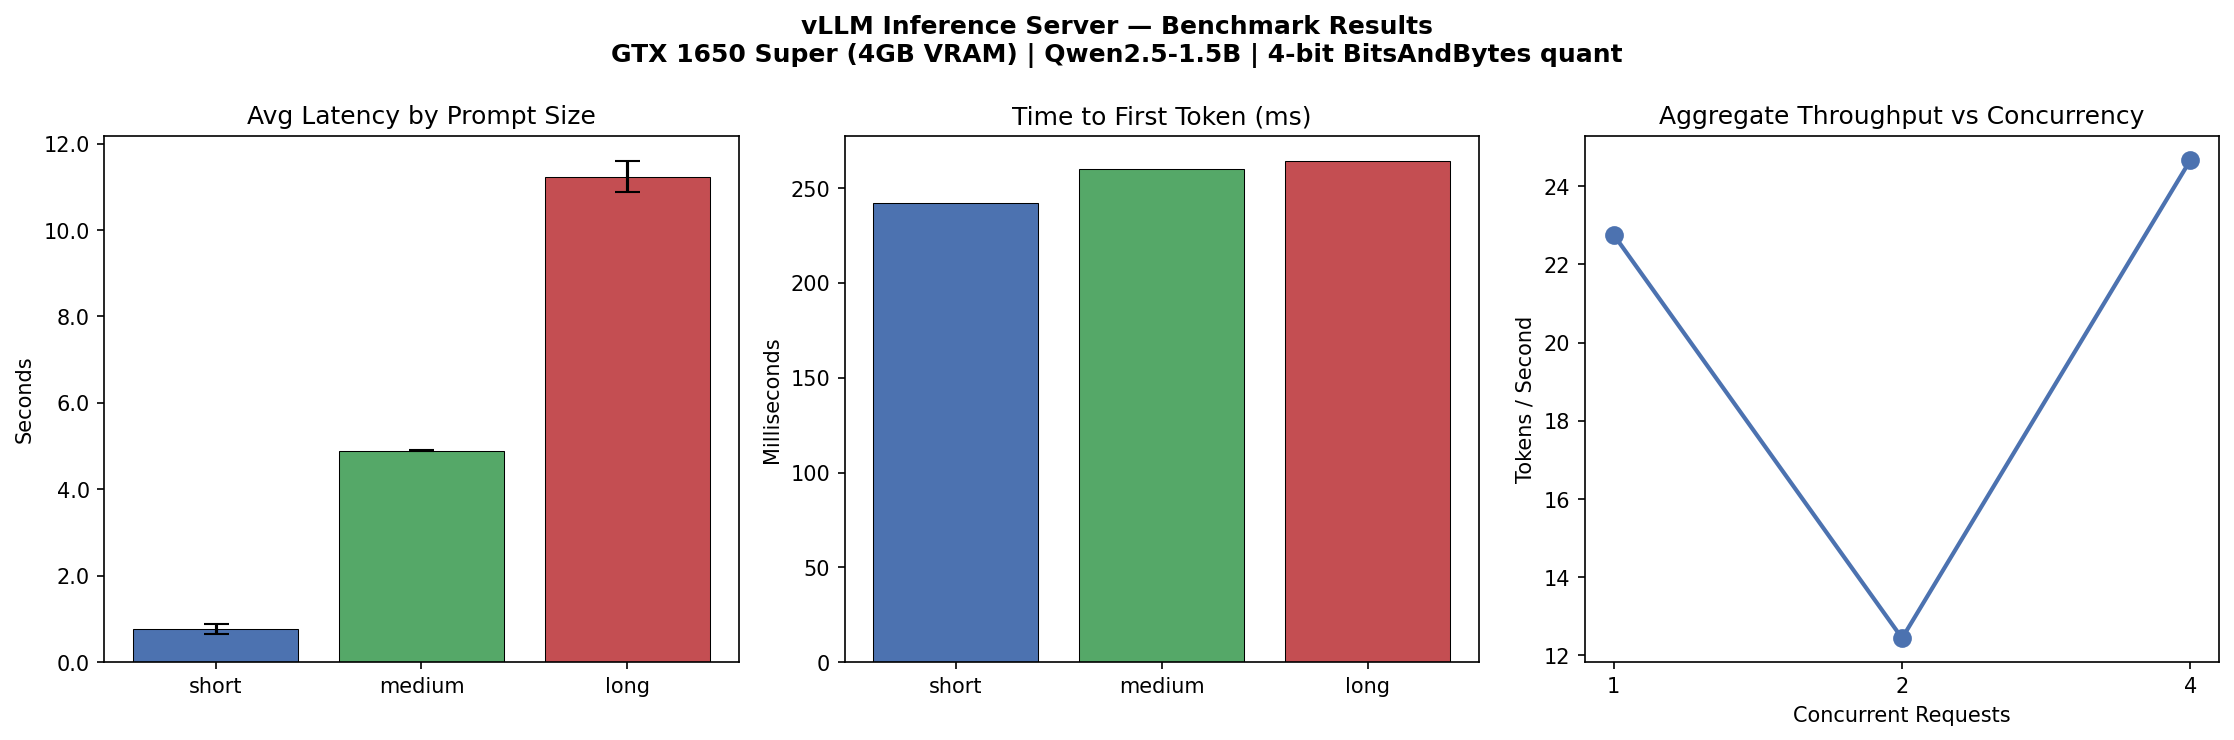
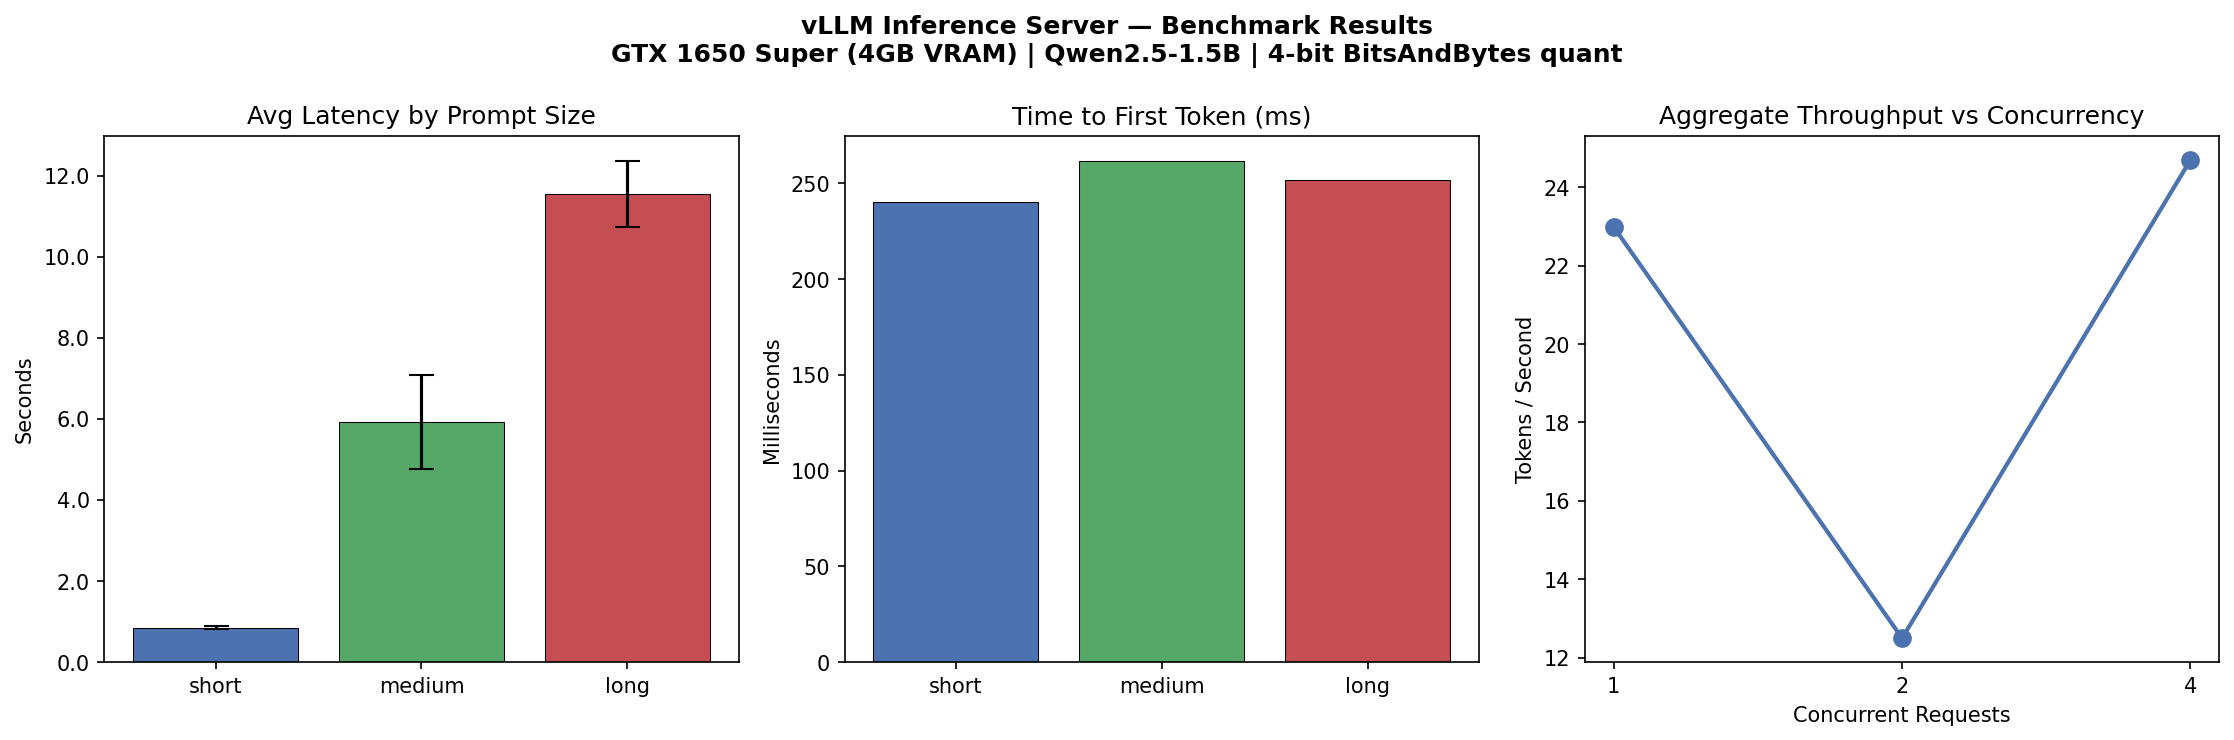
full sync

diff --git a/benchmark.py b/benchmark.py
@@ -14,19 +14,15 @@ import matplotlib.pyplot as plt
 import matplotlib.ticker as mticker
 from pathlib import Path
 
-BASE_URL  = "http://localhost:8000/v1"
-MODEL     = "qwen2.5-1.5b"
-HEADERS   = {"Content-Type": "application/json", "Authorization": "Bearer placeholder"}
+BASE_URL = "http://localhost:8000/v1"
+MODEL = "qwen2.5-1.5b"
+HEADERS = {"Content-Type": "application/json", "Authorization": "Bearer placeholder"}
 OUTPUT_DIR = Path("/mnt/d/vllm-project/server")
 
 PROMPTS = {
     "short":  "What is 2 + 2?",
     "medium": "Explain what a transformer neural network is in 3 sentences.",
-    "long": (
-        "Write a detailed explanation of how PagedAttention in vLLM improves "
-        "GPU memory efficiency compared to static KV cache allocation. "
-        "Include concrete numbers and a comparison."
-    ),
+    "long": "Write a detailed explanation of how Attention works in Transformer"
 }
 
 
@@ -40,10 +36,13 @@ def non_streaming_request(prompt: str, max_tokens: int = 256) -> dict:
     }
     t0 = time.perf_counter()
     resp = requests.post(f"{BASE_URL}/chat/completions", json=payload, headers=HEADERS)
+
     elapsed = time.perf_counter() - t0
     resp.raise_for_status()
+
     data = resp.json()
     completion_tokens = data["usage"]["completion_tokens"]
+
     return {
         "elapsed_s": elapsed,
         "completion_tokens": completion_tokens,
@@ -61,6 +60,7 @@ def time_to_first_token(prompt: str, max_tokens: int = 128) -> float:
         "temperature": 0.0,
         "stream": True,
     }
+
     t0 = time.perf_counter()
     with requests.post(
         f"{BASE_URL}/chat/completions", json=payload, headers=HEADERS, stream=True
@@ -69,6 +69,7 @@ def time_to_first_token(prompt: str, max_tokens: int = 128) -> float:
         for line in resp.iter_lines():
             if line and line != b"data: [DONE]":
                 return time.perf_counter() - t0
+
     return -1.0
 
 
@@ -83,12 +84,12 @@ def concurrent_benchmark(prompt: str, n_concurrent: int = 4, max_tokens: int = 1
     wall_time = time.perf_counter() - t0
 
     total_tokens = sum(r["completion_tokens"] for r in results)
-    latencies    = [r["elapsed_s"] for r in results]
+    latencies = [r["elapsed_s"] for r in results]
     return {
         "wall_time_s":    wall_time,
-        "total_tokens":   total_tokens,
-        "aggregate_tps":  total_tokens / wall_time,
-        "avg_latency_s":  statistics.mean(latencies),
+        "total_tokens" :   total_tokens,
+        "aggregate_tps" :  total_tokens / wall_time,
+        "avg_latency_s" :  statistics.mean(latencies),
         "p95_latency_s":  sorted(latencies)[int(0.95 * len(latencies))],
     }
 
@@ -104,13 +105,13 @@ def run_latency_benchmark(n_runs: int = 5) -> dict:
             print(f"  [{label}] run {i+1}: {r['elapsed_s']:.2f}s | "
                   f"{r['completion_tokens']} tokens | {r['tokens_per_sec']:.1f} tok/s")
         results[label] = {
-            "mean_s":  statistics.mean(times),
+            "mean_s" :  statistics.mean(times),
             "stdev_s": statistics.stdev(times) if len(times) > 1 else 0,
-            "min_s":   min(times),
+            "min_s" :   min(times),
             "max_s":   max(times),
         }
         print(f"  [{label}] avg={results[label]['mean_s']:.2f}s "
-              f"±{results[label]['stdev_s']:.2f}s\n")
+              f"+/-{results[label]['stdev_s']:.2f}s\n")
     return results
 
 
@@ -118,10 +119,10 @@ def run_ttft_benchmark(n_runs: int = 5) -> dict:
     print("── Time to First Token ─────────────────────────────────────")
     results = {}
     for label, prompt in PROMPTS.items():
-        times  = [time_to_first_token(prompt) for _ in range(n_runs)]
-        mean   = statistics.mean(times)
+        times= [time_to_first_token(prompt) for _ in range(n_runs)]
+        mean = statistics.mean(times)
         results[label] = mean
-        print(f"  [{label}] TTFT avg: {mean*1000:.0f}ms")
+        print(f" [{label}] TTFT avg: {mean*1000:.0f}ms")
     return results
 
 
@@ -148,7 +149,7 @@ def plot_results(latency_results: dict, ttft_results: dict, concurrency_results:
         fontsize=12, fontweight="bold"
     )
 
-    # Panel 1: avg latency
+    # panel 1: avg latency
     means = [latency_results[l]["mean_s"] for l in labels]
     errs  = [latency_results[l]["stdev_s"] for l in labels]
     axes[0].bar(labels, means, yerr=errs,
@@ -166,7 +167,7 @@ def plot_results(latency_results: dict, ttft_results: dict, concurrency_results:
     axes[1].set_title("Time to First Token (ms)")
     axes[1].set_ylabel("Milliseconds")
 
-    # Panel 3: throughput vs concurrency
+    # panel 3: throughput vs concurrency
     ns       = sorted(concurrency_results.keys())
     tps_vals = [concurrency_results[n]["aggregate_tps"] for n in ns]
     axes[2].plot([str(n) for n in ns], tps_vals,
@@ -179,8 +180,7 @@ def plot_results(latency_results: dict, ttft_results: dict, concurrency_results:
     plt.tight_layout()
     out_path = OUTPUT_DIR / "benchmark_results.png"
     plt.savefig(out_path, dpi=150, bbox_inches="tight")
-    print(f"\n✅  Chart saved to {out_path}")
-    print(f"    Open in Windows Explorer: \\\\wsl$\\Ubuntu-24.04\\mnt\\d\\vllm-project\\server\\benchmark_results.png")
+    print(f"\n  Chart saved to {out_path}")
 
 
 def print_summary(latency_results, ttft_results, concurrency_results):
@@ -202,19 +202,19 @@ def print_summary(latency_results, ttft_results, concurrency_results):
 
 
 if __name__ == "__main__":
-    print("Starting vLLM benchmark — make sure serve.sh is running!\n")
+    print("Starting vLLM benchmark, make sure serve.sh is running!\n")
 
     try:
         models = requests.get(f"{BASE_URL}/models", headers=HEADERS, timeout=5)
         models.raise_for_status()
-        print(f"✅  Server online. Model: {models.json()['data'][0]['id']}\n")
+        print(f" Server online. Model: {models.json()['data'][0]['id']}\n")
     except Exception as e:
-        print(f"❌  Server not reachable: {e}")
-        print("    Start it with: bash /mnt/d/vllm-project/server/serve.sh")
+        print(f" Server not reachable: {e}")
+        print("Start it with: bash /mnt/d/vllm-project/server/serve.sh")
         exit(1)
 
-    latency_results     = run_latency_benchmark(n_runs=5)
-    ttft_results        = run_ttft_benchmark(n_runs=5)
+    latency_results = run_latency_benchmark(n_runs=5)
+    ttft_results= run_ttft_benchmark(n_runs=5)
     concurrency_results = run_concurrency_benchmark()
 
     print_summary(latency_results, ttft_results, concurrency_results)